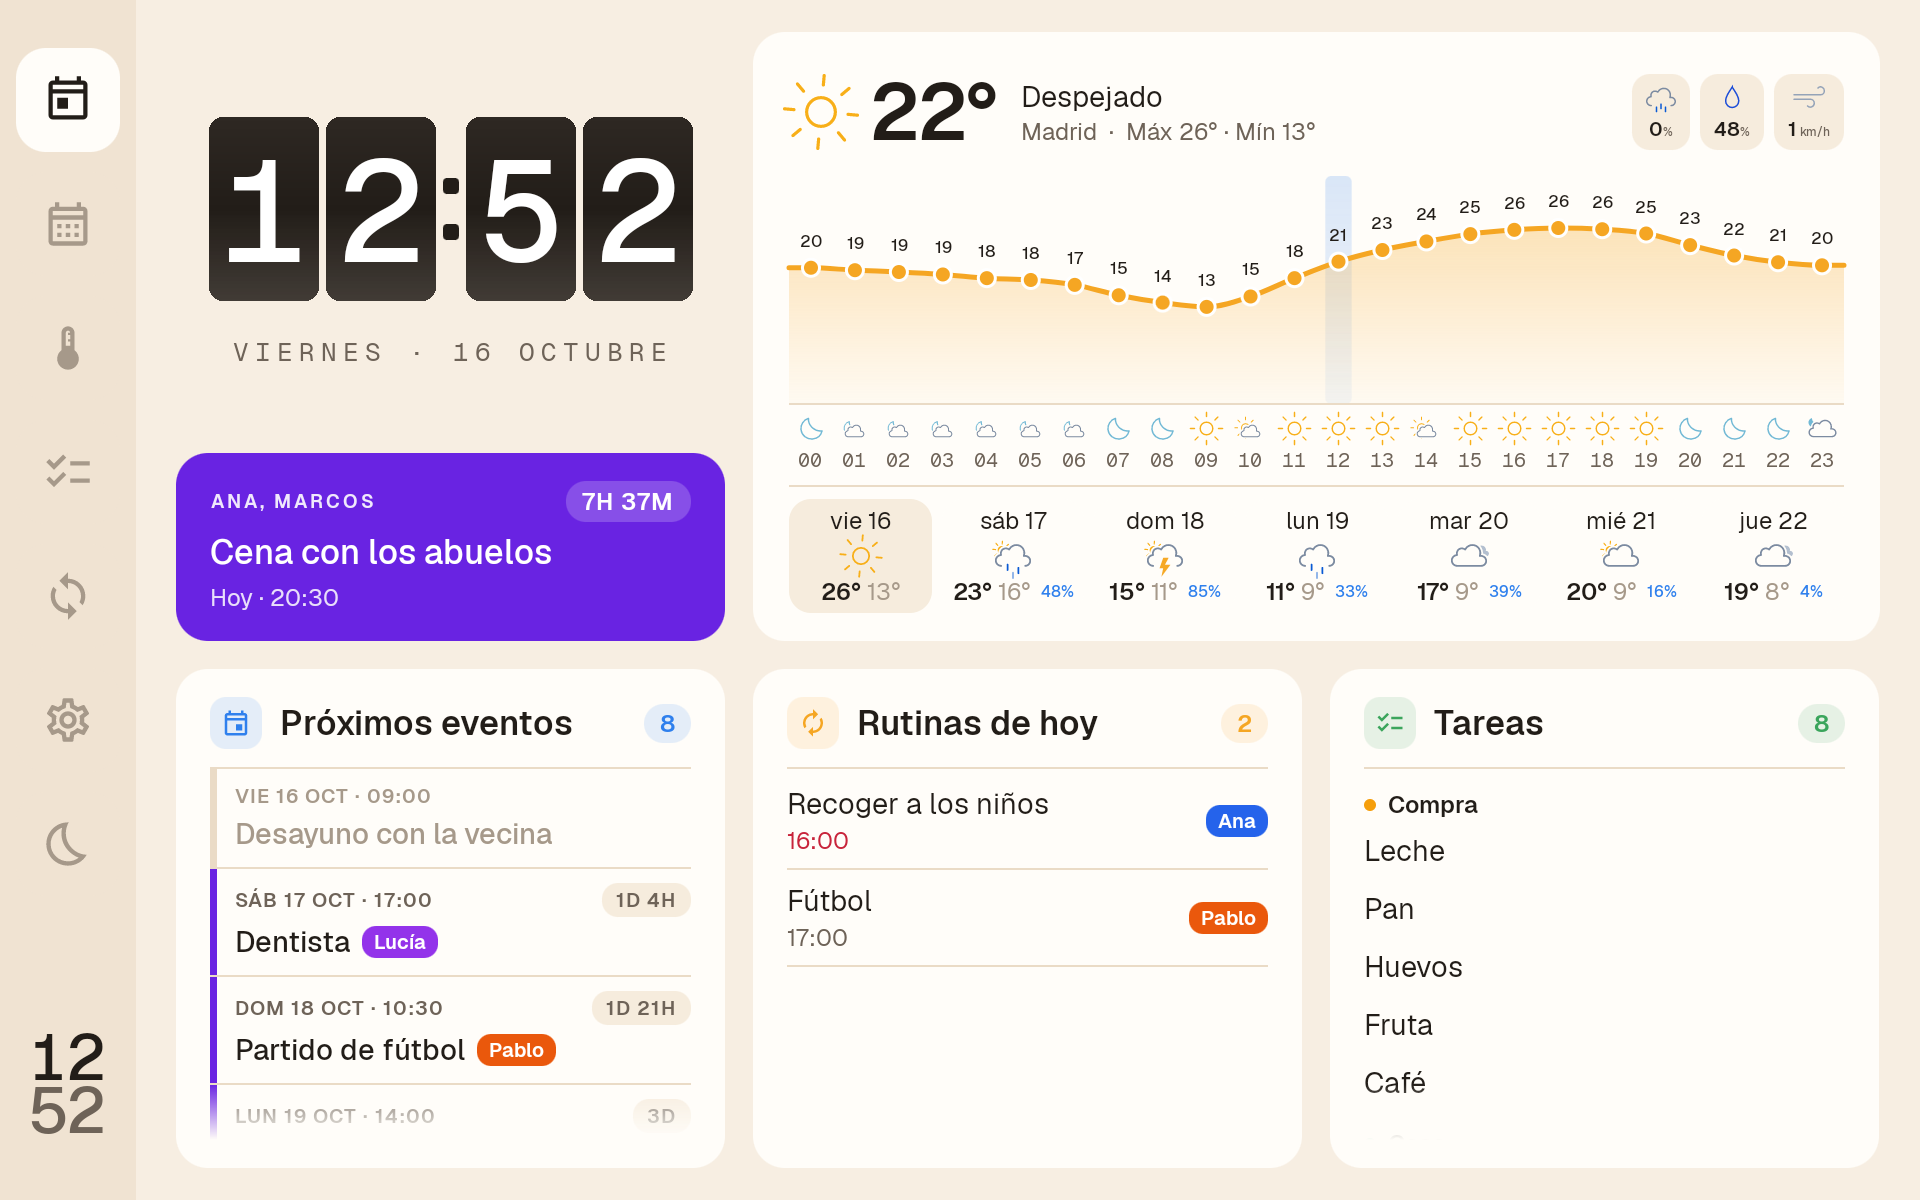
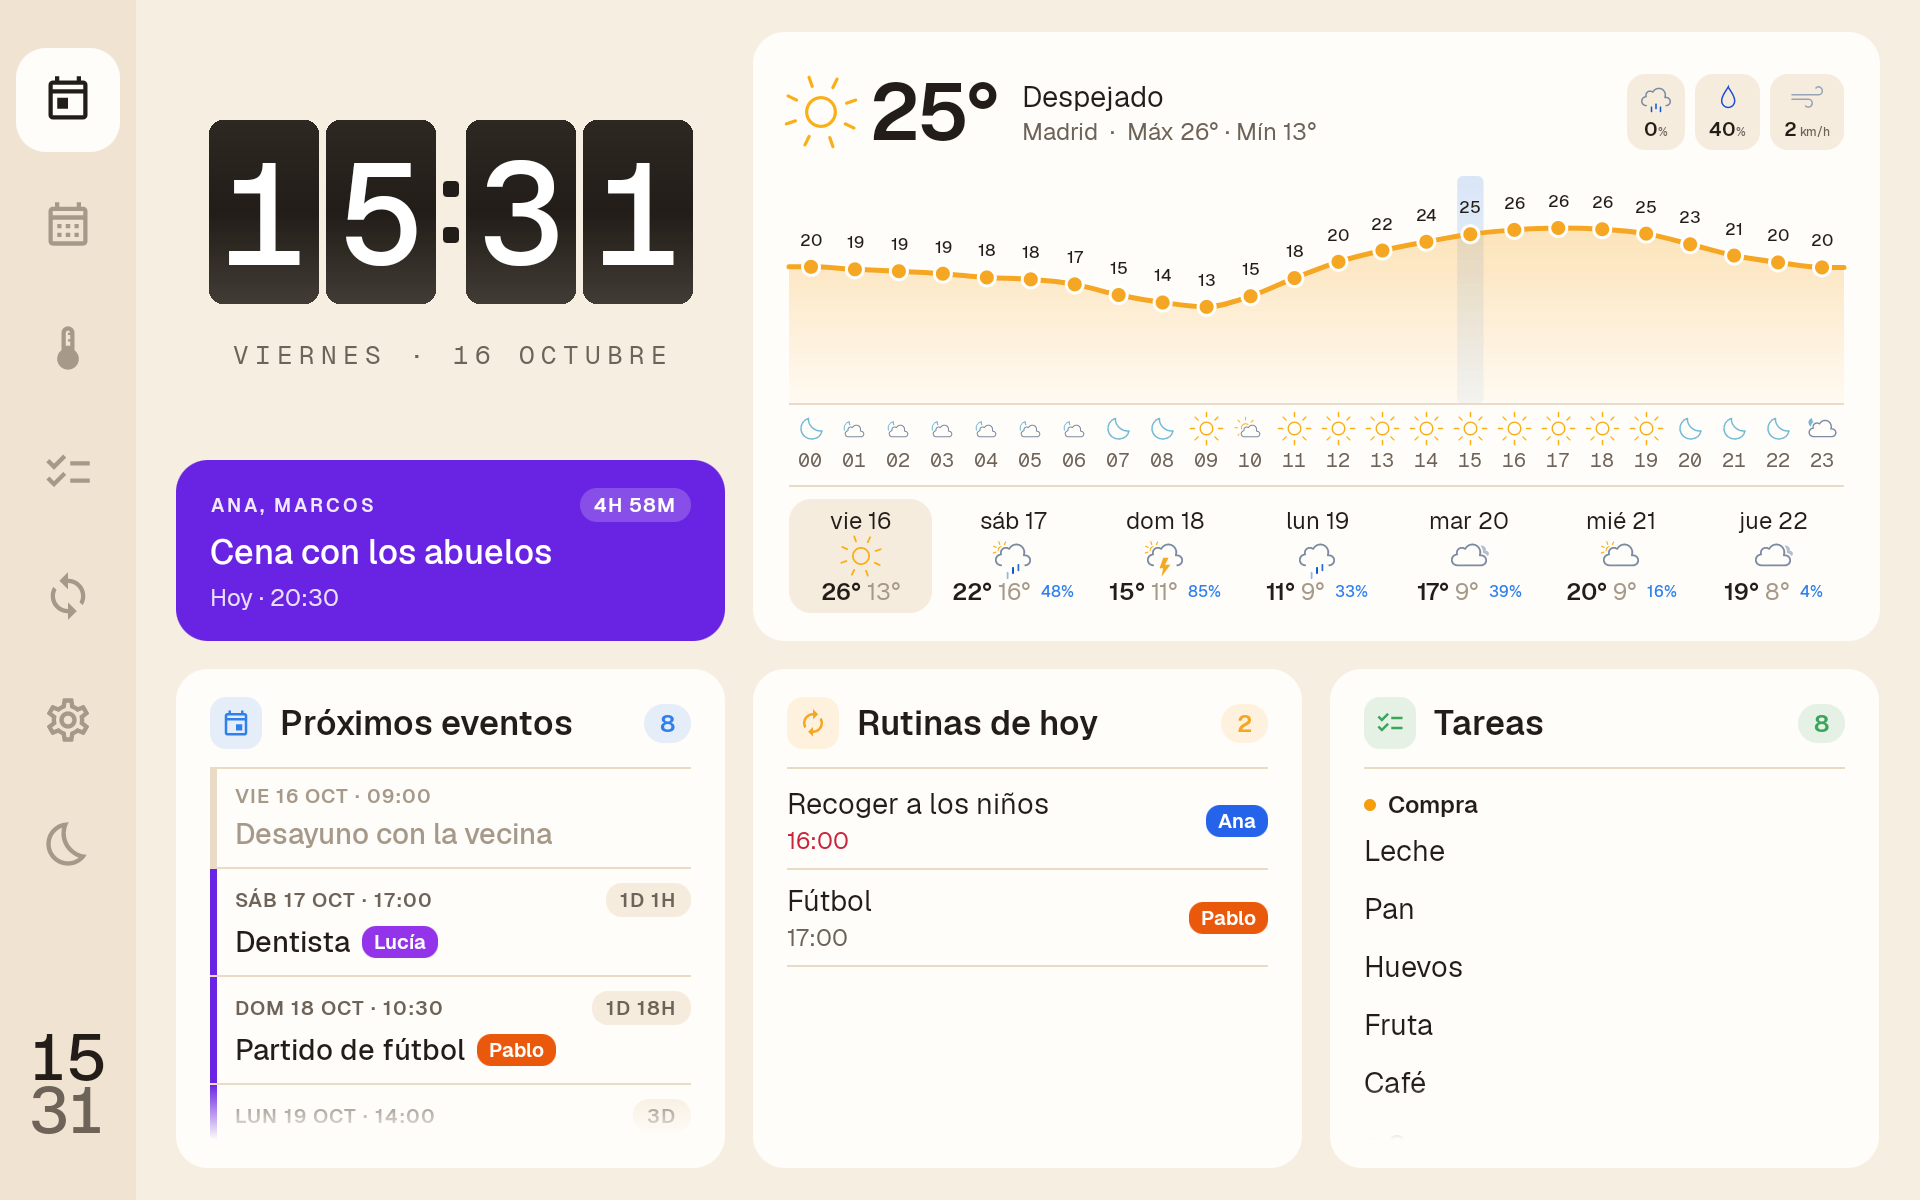
Tiempo: la probabilidad de lluvia como opacidad; horas sin «°»
- El relleno de las barras de lluvia tiene la opacidad de la probabilidad (maciza
  al 100 %, vacía al 0 %), liso y sin degradado, con un contorno suave siempre;
  sustituye a los tres niveles (maciza, rayas y contorno).
- La temperatura de cada hora en la gráfica de Tiempo, sin «°», como en Hoy.
- Hoy: la píldora de lo que falta para el siguiente evento, más pequeña.
- README, ARCHITECTURE y capturas al día.

diff --git a/android/app/src/main/java/com/lito/planify/dashboard/ui/WeatherUi.kt b/android/app/src/main/java/com/lito/planify/dashboard/ui/WeatherUi.kt
@@ -40,7 +40,6 @@ import androidx.compose.ui.graphics.StrokeCap
 import androidx.compose.ui.geometry.Rect
 import androidx.compose.ui.geometry.RoundRect
 import androidx.compose.ui.graphics.drawscope.DrawScope
-import androidx.compose.ui.graphics.drawscope.clipPath
 import androidx.compose.ui.graphics.drawscope.Stroke
 import androidx.compose.ui.text.SpanStyle
 import androidx.compose.ui.text.TextMeasurer
@@ -161,8 +160,8 @@ private const val RAIN_DAY_FULL_MM = 30.0
 /**
  * Barra de lluvia sobre [baseline], centrada en [x], solo si llueve algo (0,1 mm). El alto es la cantidad, en raíz
  * cuadrada para que se vea la floja y no se dispare la fuerte, llena a [full] mm (a partir de ahí, un azul más
- * intenso). El relleno es la probabilidad, en tres niveles que se leen sin número: maciza desde el 70 % (segura), a
- * rayas del 40 al 69 % (probable) y solo el contorno por debajo (posible). Encima, [amount].
+ * intenso). La opacidad del relleno es la probabilidad: maciza al 100 % y vacía al 0 %, con un contorno suave
+ * siempre. Encima, [amount].
  */
 private fun DrawScope.drawRain(
     measurer: TextMeasurer, x: Float, baseline: Float, maxHeight: Float, mm: Double, chance: Int, full: Double,
@@ -177,26 +176,11 @@ private fun DrawScope.drawRain(
     val shape = Path().apply {
         addRoundRect(RoundRect(Rect(topLeft, Size(width, height)), topLeft = corner, topRight = corner, bottomRight = CornerRadius.Zero, bottomLeft = CornerRadius.Zero))
     }
-    when {
-        chance >= 70 -> drawPath(shape, Brush.verticalGradient(listOf(color, color.copy(alpha = 0.6f)), startY = topLeft.y, endY = baseline))
-        chance >= 40 -> {
-            clipPath(shape) {
-                drawRect(color.copy(alpha = 0.08f), topLeft, Size(width, height))
-                // Rayas a 45°, de abajo a la izquierda hacia arriba a la derecha
-                var start = topLeft.x - height
-                while (start < topLeft.x + width) {
-                    drawLine(color.copy(alpha = 0.45f), Offset(start, baseline), Offset(start + height, topLeft.y), strokeWidth = 3f)
-                    start += 9f
-                }
-            }
-            drawPath(shape, color.copy(alpha = 0.45f), style = Stroke(width = 2f))
-        }
-        else -> {
-            // Posible: solo un contorno suave
-            drawPath(shape, color.copy(alpha = 0.06f))
-            drawPath(shape, color.copy(alpha = 0.35f), style = Stroke(width = 2f))
-        }
-    }
+    // Relleno con la opacidad de la probabilidad (100 % → maciza, 0 % → vacía) y un contorno suave para que la barra
+    // se vea aunque sea poco probable
+    val fill = (chance / 100f).coerceIn(0f, 1f)
+    drawPath(shape, color.copy(alpha = fill))
+    drawPath(shape, color.copy(alpha = 0.35f), style = Stroke(width = 2f))
     val label = measurer.measure(amount, amountStyle)
     drawText(label, topLeft = Offset(x - label.size.width / 2, baseline - height - 6 - label.size.height))
 }
@@ -232,7 +216,7 @@ fun HourlyForecast(forecast: Forecast, now: LocalDateTime, modifier: Modifier = 
     val rain = points.map { hourly.rainAt(it) }
     val measurer = rememberTextMeasurer()
     val tempStyle = Type.Small.copy(color = Palette.Ink, fontWeight = FontWeight.Medium)
-    // Con columnas estrechas (Hoy), la temperatura de todas las horas, más pequeña y sin "°", para que se vea el pico
+    // La temperatura de cada hora, sin "°"; con columnas estrechas (Hoy), más pequeña, para que se vea el pico
     val narrowTempStyle = tempStyle.copy(fontSize = 17.sp)
     // Los mm, pequeños para no saturar la gráfica; en compacto (Hoy), aún más
     val mmStyle = Type.Tiny.copy(color = Palette.Rain, fontWeight = FontWeight.SemiBold, fontSize = if (compact) 14.sp else 16.sp)
@@ -285,7 +269,7 @@ fun HourlyForecast(forecast: Forecast, now: LocalDateTime, modifier: Modifier = 
                 drawCircle(Color.White, 10f, center)
                 drawCircle(Palette.Warm, 7f, center)
                 val narrow = column < 60f
-                val label = measurer.measure(if (narrow) "${temps[i].roundToInt()}" else "${temps[i].roundToInt()}°", if (narrow) narrowTempStyle else tempStyle)
+                val label = measurer.measure("${temps[i].roundToInt()}", if (narrow) narrowTempStyle else tempStyle)
                 drawText(label, topLeft = Offset(center.x - label.size.width / 2, center.y - label.size.height - 16))
 
                 val (mm, chance) = rain[i]

diff --git a/android/app/src/main/java/com/lito/planify/dashboard/ui/TodayScreen.kt b/android/app/src/main/java/com/lito/planify/dashboard/ui/TodayScreen.kt
@@ -141,12 +141,12 @@ private fun NextCard(event: Event, now: LocalDateTime) {
             )
             Text(
                 relativeBadge(now, event.at),
-                style = Type.Small.copy(color = Color.White, fontWeight = FontWeight.SemiBold, letterSpacing = 1.sp),
+                style = Type.Tiny.copy(color = Color.White, fontWeight = FontWeight.SemiBold, letterSpacing = 1.sp),
                 maxLines = 1,
                 modifier = Modifier
                     .padding(start = 16.dp)
-                    .background(Color.White.copy(alpha = 0.2f), RoundedCornerShape(20.dp))
-                    .padding(horizontal = 16.dp, vertical = 5.dp)
+                    .background(Color.White.copy(alpha = 0.2f), RoundedCornerShape(18.dp))
+                    .padding(horizontal = 14.dp, vertical = 4.dp)
             )
         }
         Text(event.title, style = Type.Large.copy(color = Color.White, fontWeight = FontWeight.Medium), maxLines = 2, overflow = TextOverflow.Ellipsis)

diff --git a/docs/ARCHITECTURE.md b/docs/ARCHITECTURE.md
@@ -12,14 +12,14 @@ Sin sesión iniciada se muestra el login (icono de Planify y formulario, centrad
   - Arriba, en 1/3, la hora y la fecha centradas y el **siguiente** evento (tarjeta del color de su calendario: sus personas y, a la derecha, lo que falta en una píldora, como en la lista de próximos eventos; debajo, el título y el día y la hora). Ese evento no se repite en la lista de próximos eventos. En 2/3, la **tarjeta del tiempo**: icono, temperatura y estado; lluvia del día, humedad y viento como iconos con su valor (Meteocons estáticos); la curva hora a hora del día de hoy, de 00 a 23 h (la hora actual marcada con una banda azul translúcida; la temperatura de todas las horas, pequeña y sin «°») con barras de lluvia solo donde llueve (el alto es la cantidad y el relleno, la probabilidad; ver más abajo); debajo, el icono del tiempo de cada hora y, abajo del todo, la hora; y, separados por una línea, los días en columnas, que se deslizan para ver la semana siguiente (vuelven a la primera a los 2 minutos). Al tocar un día, la cabecera y la curva pasan a ese día; tocarlo otra vez, o tocar hoy, vuelve a hoy (y vuelve solo a los 2 minutos).
   - Abajo, **próximos eventos** con el formato del widget de la app (barra de color, "MIÉ 14 OCT · 16:00" con el tiempo que falta en una píldora, título y personas; los pasados en gris), **rutinas de hoy** (la lista, con la siguiente resaltada y las pasadas atenuadas) y **tareas** por lista, sin casillas porque no se pueden marcar.
 - **Calendario:** semanas de lunes a domingo, deslizando a izquierda y derecha (un año hacia cada lado; "Volver a hoy" regresa a la actual). 7 columnas. La cabecera de cada día mide siempre lo mismo: día y número con el icono del tiempo a la derecha, y debajo mín / máx · lluvia (0 % si no llueve). Luego los eventos y, aparte, una banda de rutinas (hora y colores de las personas arriba, nombre debajo); los días pasados, atenuados. Cada semana se descarga al mostrarla, junto con las vecinas. Abajo, la leyenda de personas.
-- **Tiempo:** dos páginas que se deslizan. La primera es la tarjeta del tiempo a pantalla completa: el mismo día de hoy de 00 a 23 h que en Hoy, con el icono de cada hora encima de la hora, y 7 días. La segunda, la **semana siguiente** (días 8 a 14): gráfica de máximas y mínimas, lluvia (% y mm) y viento, y las columnas de cada día. En las dos páginas, tocar un día abre sus 24 horas (en la segunda, en lugar de la gráfica semanal) y tocarlo otra vez lo cierra.
+- **Tiempo:** dos páginas que se deslizan. La primera es la tarjeta del tiempo a pantalla completa: el mismo día de hoy de 00 a 23 h que en Hoy (la temperatura de cada hora, también sin «°»), con el icono de cada hora encima de la hora, y 7 días. La segunda, la **semana siguiente** (días 8 a 14): gráfica de máximas y mínimas, lluvia (% y mm) y viento, y las columnas de cada día. En las dos páginas, tocar un día abre sus 24 horas (en la segunda, en lugar de la gráfica semanal) y tocarlo otra vez lo cierra.
 - **Iconos del tiempo:** [Meteocons](https://github.com/basmilius/meteocons) de Bas Milius (estilo *line*, licencia MIT, en `third_party/meteocons/`), uno por código WMO de Open-Meteo, de día o de noche. `scripts/meteocons.py` los descarga en la versión fijada, cambia los colores pensados para fondo oscuro (nubes, niebla y viento casi blancos) por tonos pizarra y los deja en `res/raw` (animados, Lottie) y `res/drawable` (los estáticos de la cabecera: nube con lluvia para la probabilidad, gota para la humedad y viento, con la unidad más pequeña). El código diario es el tiempo más significativo de todo el día (si hay niebla por la mañana, el día sale con niebla), así que la columna de hoy, en el tiempo y en el calendario, usa el tiempo de ahora, como la cabecera.
   - **Animados:** el icono de la cabecera y los de las columnas de días (Hoy, Tiempo y Calendario); la fila de horas, estática. Dibujar los Lottie en cada fotograma costaba 1–2 núcleos y subía el marco a 72 °C, así que cada icono se renderiza una vez en segundo plano a su tamaño exacto (90 fotogramas: su bucle de 6 s a 15 fps, caché de 48 MB) y animarlo es pintar un bitmap, todos sincronizados con un único reloj. Medido en el marco: Hoy 31 % de un núcleo, Tiempo 37 %, Calendario 25 %, sin pasar de 61 °C; la app ocupa unos 175 MB y quedan unos 400 MB libres. Con la pantalla apagada no se anima nada.
 - **Reloj:** en Hoy, un reloj de paletas (`FlipClock`): cada cifra en una placa grafito partida por la mitad y, al cambiar, la mitad de arriba cae y descubre la nueva (medio segundo, solo las cifras que cambian). En la barra lateral, las cifras se deslizan (`RollingText`). Las escalas de animación del sistema están a 0 en el marco, así que estas animaciones fuerzan su propia escala para verse.
 - **Máximas y mínimas:** salen de las 24 horas de cada día (`withDailyFromHourly`, una vez al recibir la previsión), para que el resumen, las cabeceras y las gráficas digan siempre lo mismo. Las diarias de Open-Meteo se calculan con más detalle que la hora en punto y no coincidían.
 - **Tareas:** todas las listas del dashboard en columnas.
 
-Las tarjetas llevan una cabecera común (`CardHeader`): icono en un cuadro tintado, título y el total en una píldora del mismo color. En las gráficas del tiempo, la barra de lluvia mide la **cantidad**, no la probabilidad: el alto son los mm (en raíz cuadrada, llena a 15 mm en una hora o 30 mm en un día, y con un azul más intenso a partir de ahí) y el relleno es la probabilidad, en tres niveles que se leen sin número: maciza desde el 70 % (segura), a rayas del 40 al 69 % (probable) y solo el contorno por debajo (posible). Encima, los mm. Sin lluvia apreciable (menos de 0,1 mm) no hay barra. Open-Meteo da la lluvia de la hora anterior, así que cada columna enseña la de la hora que empieza en ella (la de las 05, de 05 a 06). La cabecera y los días llevan también el total del día en mm: primero los mm y después el % (en los días, nada si es un 0 %). Las listas que no caben se desvanecen en el borde (`fadingScroll`) en vez de cortar el texto. Las tarjetas sin contenido muestran un estado vacío (`EmptyState`): icono en círculos del color de la tarjeta, título y una línea.
+Las tarjetas llevan una cabecera común (`CardHeader`): icono en un cuadro tintado, título y el total en una píldora del mismo color. En las gráficas del tiempo, la barra de lluvia mide la **cantidad**, no la probabilidad: el alto son los mm (en raíz cuadrada, llena a 15 mm en una hora o 30 mm en un día, y con un azul más intenso a partir de ahí) y la opacidad del relleno es la probabilidad, sin número: maciza al 100 % y vacía al 0 %, con un contorno suave siempre para que se vea la barra. Encima, los mm. Sin lluvia apreciable (menos de 0,1 mm) no hay barra. Open-Meteo da la lluvia de la hora anterior, así que cada columna enseña la de la hora que empieza en ella (la de las 05, de 05 a 06). La cabecera y los días llevan también el total del día en mm: primero los mm y después el % (en los días, nada si es un 0 %). Las listas que no caben se desvanecen en el borde (`fadingScroll`) en vez de cortar el texto. Las tarjetas sin contenido muestran un estado vacío (`EmptyState`): icono en círculos del color de la tarjeta, título y una línea.
 - **Reloj nocturno** (`NightScreen`): fuera de horario, si no se ha elegido apagar la pantalla, la hora, la fecha y el tiempo de ahora en negrita y en blanco sobre negro (el icono del tiempo, teñido de blanco), estáticos, con el brillo al mínimo (`MainActivity` pone `screenBrightness` a 1/255 mientras `UiState.night`). Tocar enseña el dashboard 5 minutos (`peekUntil`). La luna de la barra lateral también lo activa si está el reloj nocturno (`nightNow`, hasta que se toque o hasta el siguiente encendido); si no, apaga la pantalla con `lockNow()`.
 - **Ajustes:**
   - tres columnas que caben sin desplazamiento;

diff --git a/README.md b/README.md
@@ -45,7 +45,7 @@ La semana de lunes a domingo, deslizando entre semanas: el tiempo de cada día, 
 <img src="docs/images/calendar.png" alt="Calendario" />
 
 ### Tiempo
-Dos páginas que se deslizan. La primera: el día de hoy por horas, de 00 a 23 con la hora actual marcada, y 7 días. La segunda: la semana siguiente en gráfica (máximas, mínimas, lluvia y viento). Tocar cualquier día abre sus 24 horas con su propia cabecera. La lluvia se dibuja por cantidad: el alto de la barra son los mm de esa hora, y el relleno, la probabilidad (maciza si es segura, a rayas si es probable y solo el contorno si es posible).
+Dos páginas que se deslizan. La primera: el día de hoy por horas, de 00 a 23 con la hora actual marcada, y 7 días. La segunda: la semana siguiente en gráfica (máximas, mínimas, lluvia y viento). Tocar cualquier día abre sus 24 horas con su propia cabecera. La lluvia se dibuja por cantidad: el alto de la barra son los mm de esa hora, y la opacidad del relleno, la probabilidad (maciza al 100 %, vacía al 0 %).
 
 <p align="center">
   <img src="docs/images/weather.png" width="49%" alt="Tiempo: hoy por horas y 7 días" />
